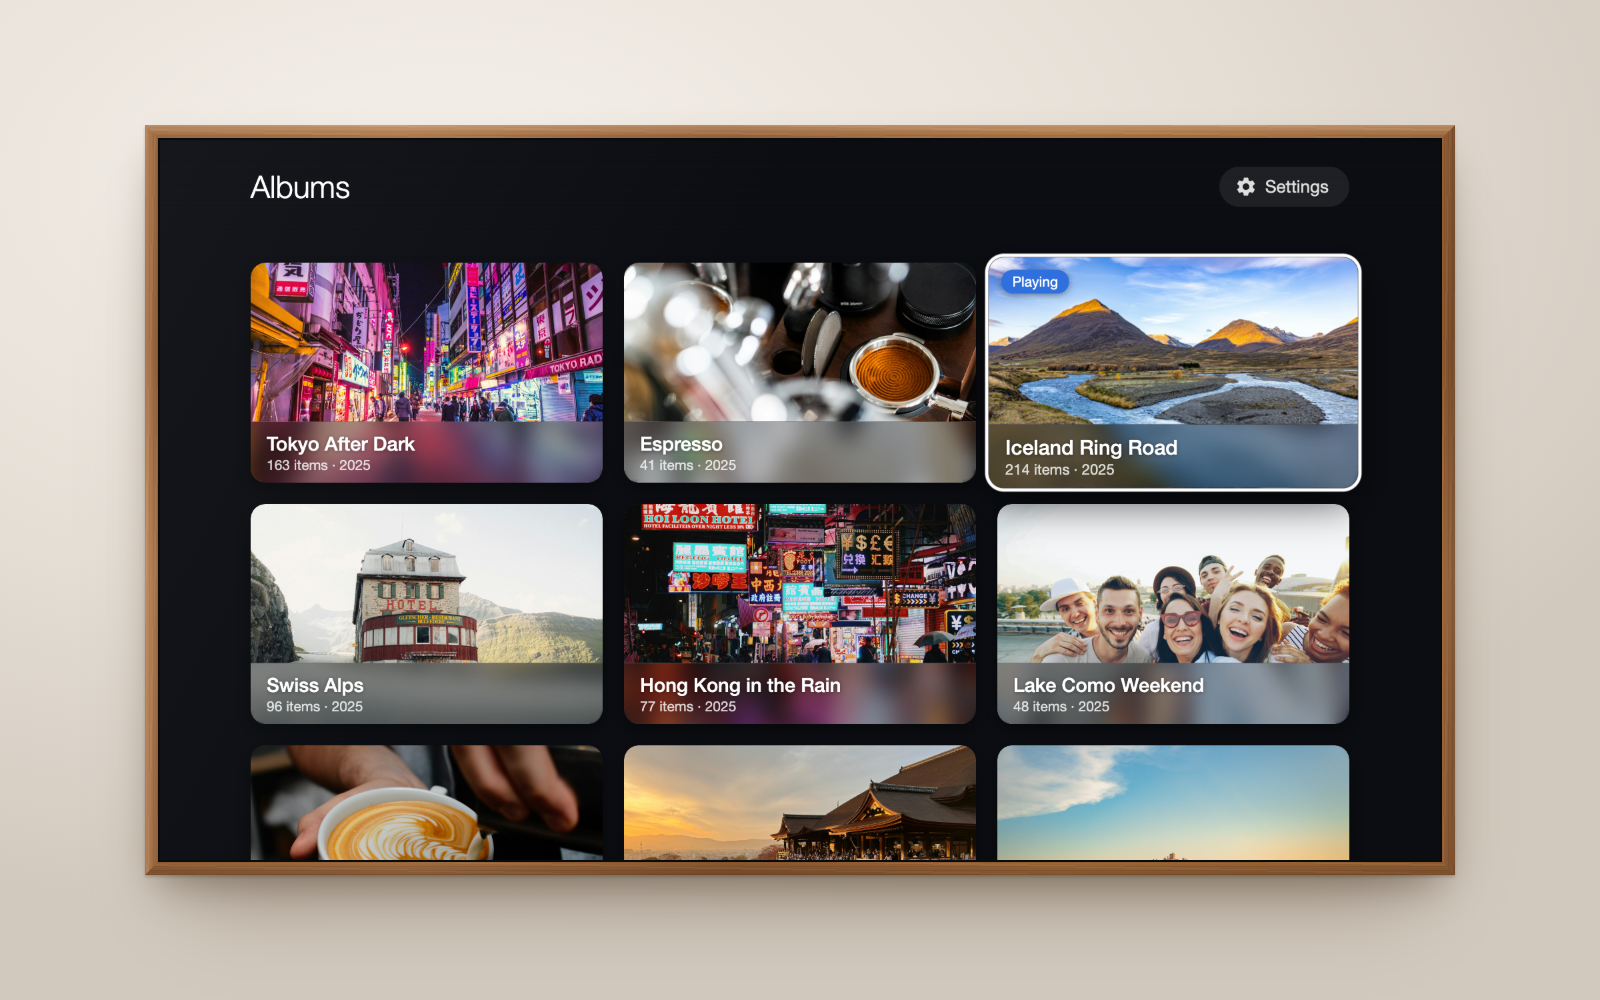
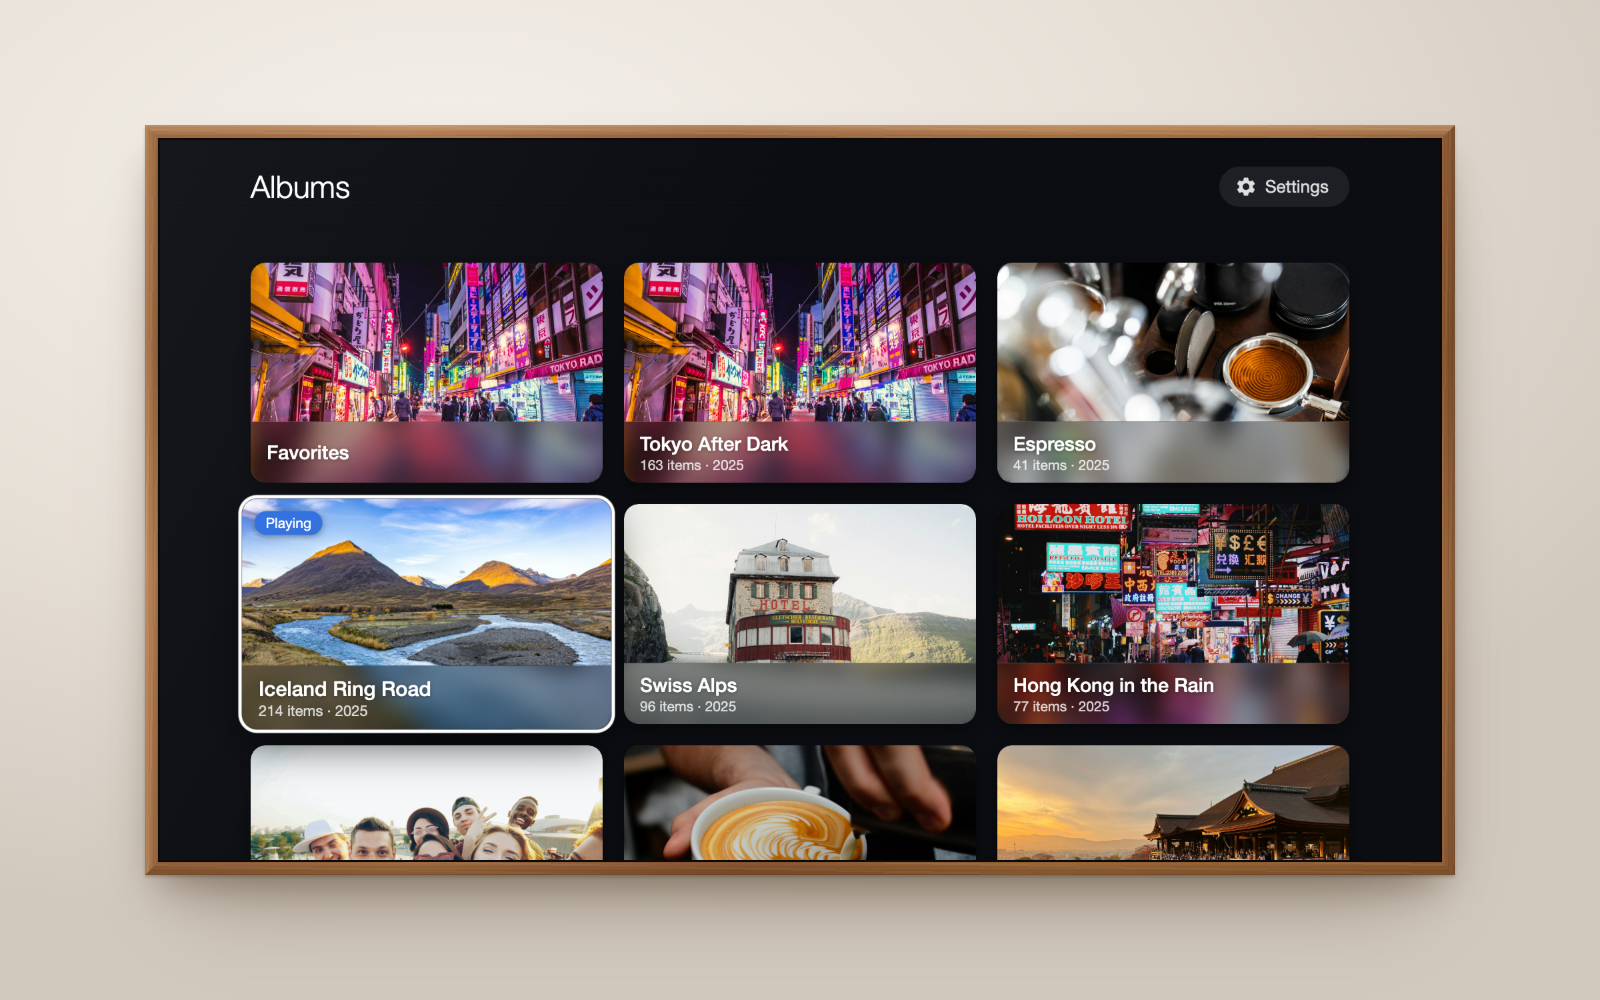
README: film strip, photo details and Favorites
New screenshots (Favorites in the album grid, and the film strip), the
album grid's order, favorites being per DSM user, and troubleshooting for
the Favorites tile. The showcase can now open the film strip for a shot.

diff --git a/dev/showcase.js b/dev/showcase.js
@@ -1,7 +1,8 @@
 /*
  * Loaded by `mock_server.py --showcase` only. Opens the screen named in the page address
- * so a headless browser can capture it: #albums (the grid) or #settings (Slideshow
- * settings). Without a hash the slideshow plays.
+ * so a headless browser can capture it: #albums (the grid), #settings (Slideshow
+ * settings) or #filmstrip (the film strip, a few photos along). Without a hash the
+ * slideshow plays.
  */
 (function () {
   var shot = location.hash.slice(1);
@@ -15,6 +16,15 @@
   }
   setTimeout(function () {
     if (shot === 'albums') key(10009); // Back: the album grid
+    if (shot === 'filmstrip') {
+      // Once a photo and its date are on screen (▲ does nothing before that).
+      var wait = setInterval(function () {
+        if (!document.querySelector('.slide.active') || !document.getElementById('caption-date').textContent) return;
+        clearInterval(wait);
+        key(38); // ▲: the film strip
+        key(39); key(39); // a couple of photos along, so there are thumbnails either side
+      }, 100);
+    }
     if (shot === 'settings') {
       key(403); // red button: settings
       setTimeout(function () { key(40); key(40); key(39); }, 300); // Slideshow, into its options

diff --git a/README.md b/README.md
@@ -7,17 +7,20 @@
 <table>
   <tr>
     <td><img src="docs/screenshots/albums-tv.png" alt="The album grid"></td>
+    <td><img src="docs/screenshots/filmstrip-tv.png" alt="The film strip over a photo"></td>
     <td><img src="docs/screenshots/settings-tv.png" alt="The Slideshow settings"></td>
   </tr>
   <tr>
     <td align="center">Pick an album</td>
+    <td align="center">Jump to a photo</td>
     <td align="center">Settings, on the TV</td>
   </tr>
 </table>
 
 A Samsung TV (Tizen) app that plays a slideshow of your **Synology Photos** library:
 all your photos, your favorites, a single album, or Shared Space, with crossfades, a slow pan and zoom,
-the date each photo was taken, and a clock.
+the date each photo was taken, and a clock. Press ▲ for a film strip to jump to another
+photo, or ▼ for where and with what camera the photo on show was taken.
 
 > **About Art Mode:** Samsung doesn't let third-party apps draw in the Frame's Art Mode.
 > This app runs as a normal TV app, so the TV stays in TV mode while it plays. The app
@@ -49,6 +52,9 @@ Run the commands below from that folder.
 
 1. In DSM, create a dedicated user (e.g. `photoframe`) and give it access to Synology Photos.
    Share the albums you want with it, or let it see the Shared Space.
+   Favorites belong to each DSM user: the **Favorites** tile shows the photos *this* user
+   has marked with a heart, so sign in to Synology Photos as it to mark them (or have the
+   TV sign in as your own account).
    *Don't* turn on 2-factor sign-in for this user; the TV can't enter codes.
 2. Find the NAS's address on your network, e.g. `http://192.168.1.20:5000`. It's in DSM
    under **Control Panel → Network → Network Interface**, or open
@@ -175,6 +181,10 @@ C:\tizen-studio\tools\ide\bin\tizen.bat install -n Shutter.wgt -- .buildResult
 | Color keys | Settings |
 | Back | Slideshow: open Albums (closes the film strip or photo details first); OK on an album plays it, ▲ from the top row reaches Settings (top right). In Albums: asks "Exit?" (Cancel is selected; Back cancels); OK on the *Playing* album returns to the slideshow. Settings: back to the categories, then to the album grid |
 
+The album grid starts with **Favorites**, then your albums (newest first), then Shared
+Space if the account can see it. To play your whole library, choose **All my photos** under
+*Photos* in Settings.
+
 On the settings screen, use ▲▼ to move, ◀▶ to change a choice, and OK to type into a field.
 Choose **Connect & load albums** to check your sign-in and list your albums.
 
@@ -236,6 +246,8 @@ on a TV drawn in the proportions of a 55" The Frame ([dev/mockup.html](dev/mocku
   addresses aren't supported.
 - To start faster, the app keeps the photo list, the sign-in session and the album covers
   on the TV between launches.
+- The place, camera and exposure in the photo details are asked of the NAS when you open
+  them, once per photo. The place needs location data in the photo (or set in Synology Photos).
 - Synology Photos' web API is undocumented. This app uses the same calls as Synology's web
   client and community tools. A future Synology Photos update could change them.
 
@@ -244,6 +256,9 @@ on a TV drawn in the proportions of a 55" The Frame ([dev/mockup.html](dev/mocku
 - **Connects but finds no photos or albums**: the DSM user only sees its own photos and albums
   shared with it. In Synology Photos (signed in as yourself), open an album → **Share** → add the
   frame's user. For Shared Space, give the user access under Synology Photos → Settings → Shared Space.
+- **No Favorites tile**: the Synology Photos package is too old for favorites (the heart);
+  update it in Package Center. **Favorites says "No photos"**: the account the TV signs in
+  with hasn't marked any; see [Prepare your Synology](#2-prepare-your-synology).
 - **`dev/login-test.html`** (open it through `dev/mock_server.py --proxy …`) checks sign-in and
   Photos access for an account, showing only result codes.
 
